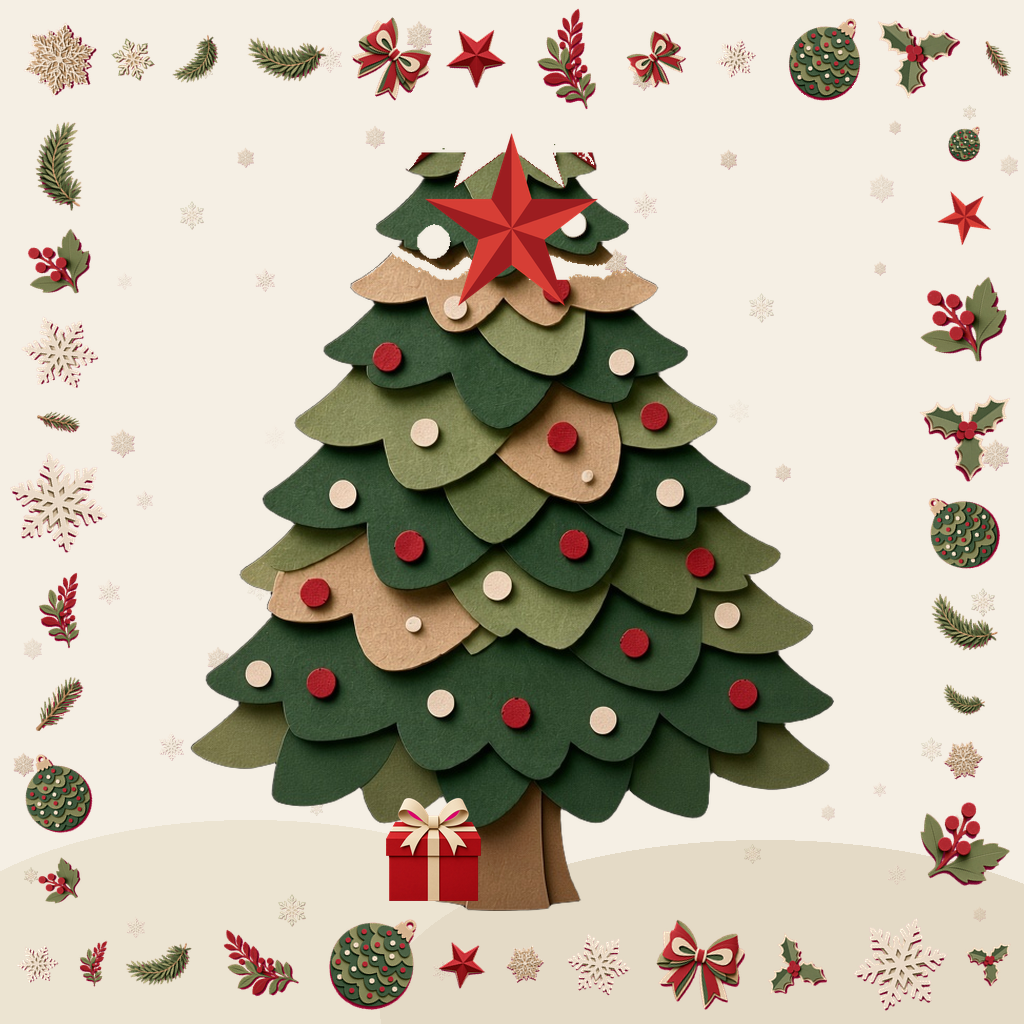
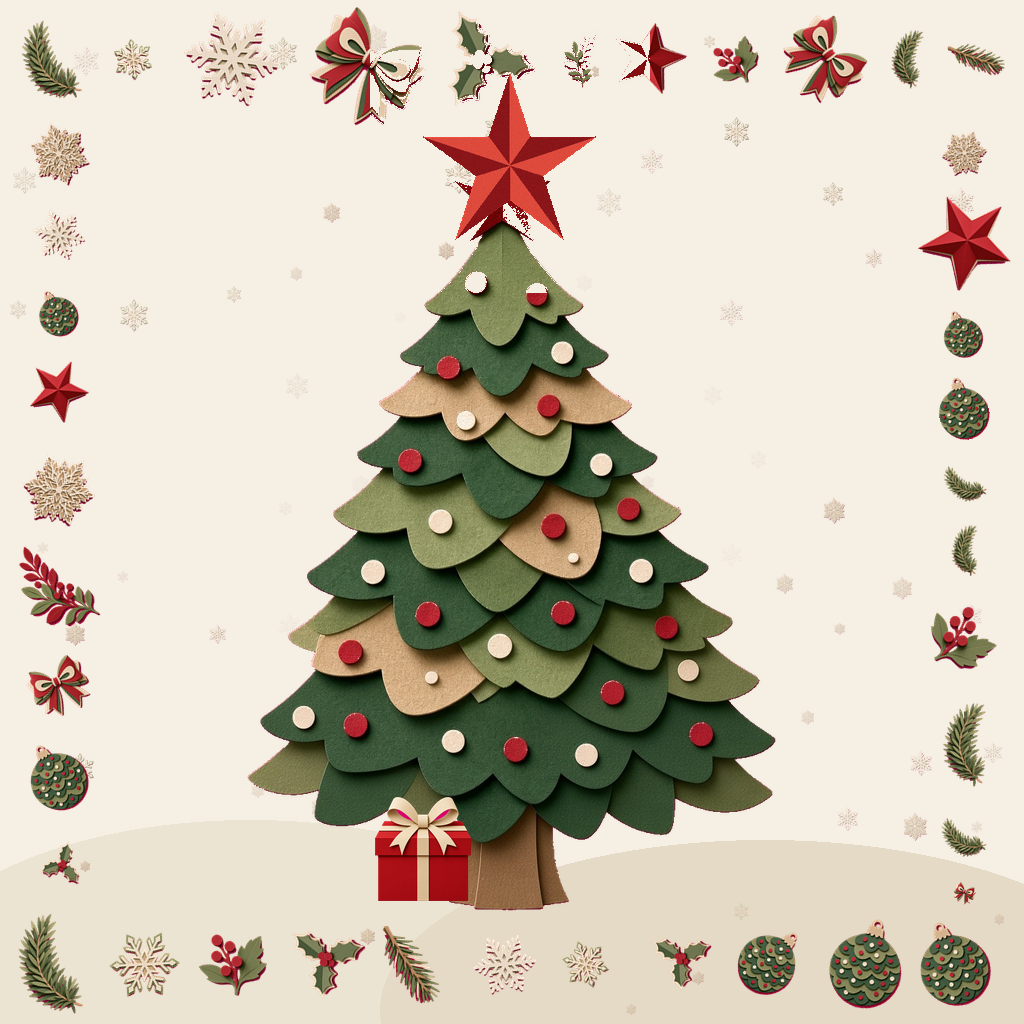
Match neon strokes to snow clarity; paper cover v25 star-only
Neon hand edges hardened to opaque high-contrast cores (no soft glow),
synced to store neon/. Paper cover uses v19 layout with only the
tree-topper star replaced. Cache-bust neon VER 21, paper VER 23.

diff --git a/hosts/paper/src/paperAssets.js b/hosts/paper/src/paperAssets.js
@@ -5,7 +5,7 @@ import { loadImage } from './pixelAssets.js'
 
 const BASE = import.meta.env.BASE_URL
 const P = `${BASE}paper`
-const VER = '22'
+const VER = '23'
 
 export const PAPER = {
   guideSnow: `${P}/guide-snow.jpg?v=${VER}`,

diff --git a/hosts/neon/src/neonAssets.js b/hosts/neon/src/neonAssets.js
@@ -5,7 +5,7 @@ import { loadImage } from './pixelAssets.js'
 
 const BASE = import.meta.env.BASE_URL
 const N = `${BASE}neon`
-const VER = '20'
+const VER = '21'
 const FLAKE_VER = '4'
 
 export const NEON = {
